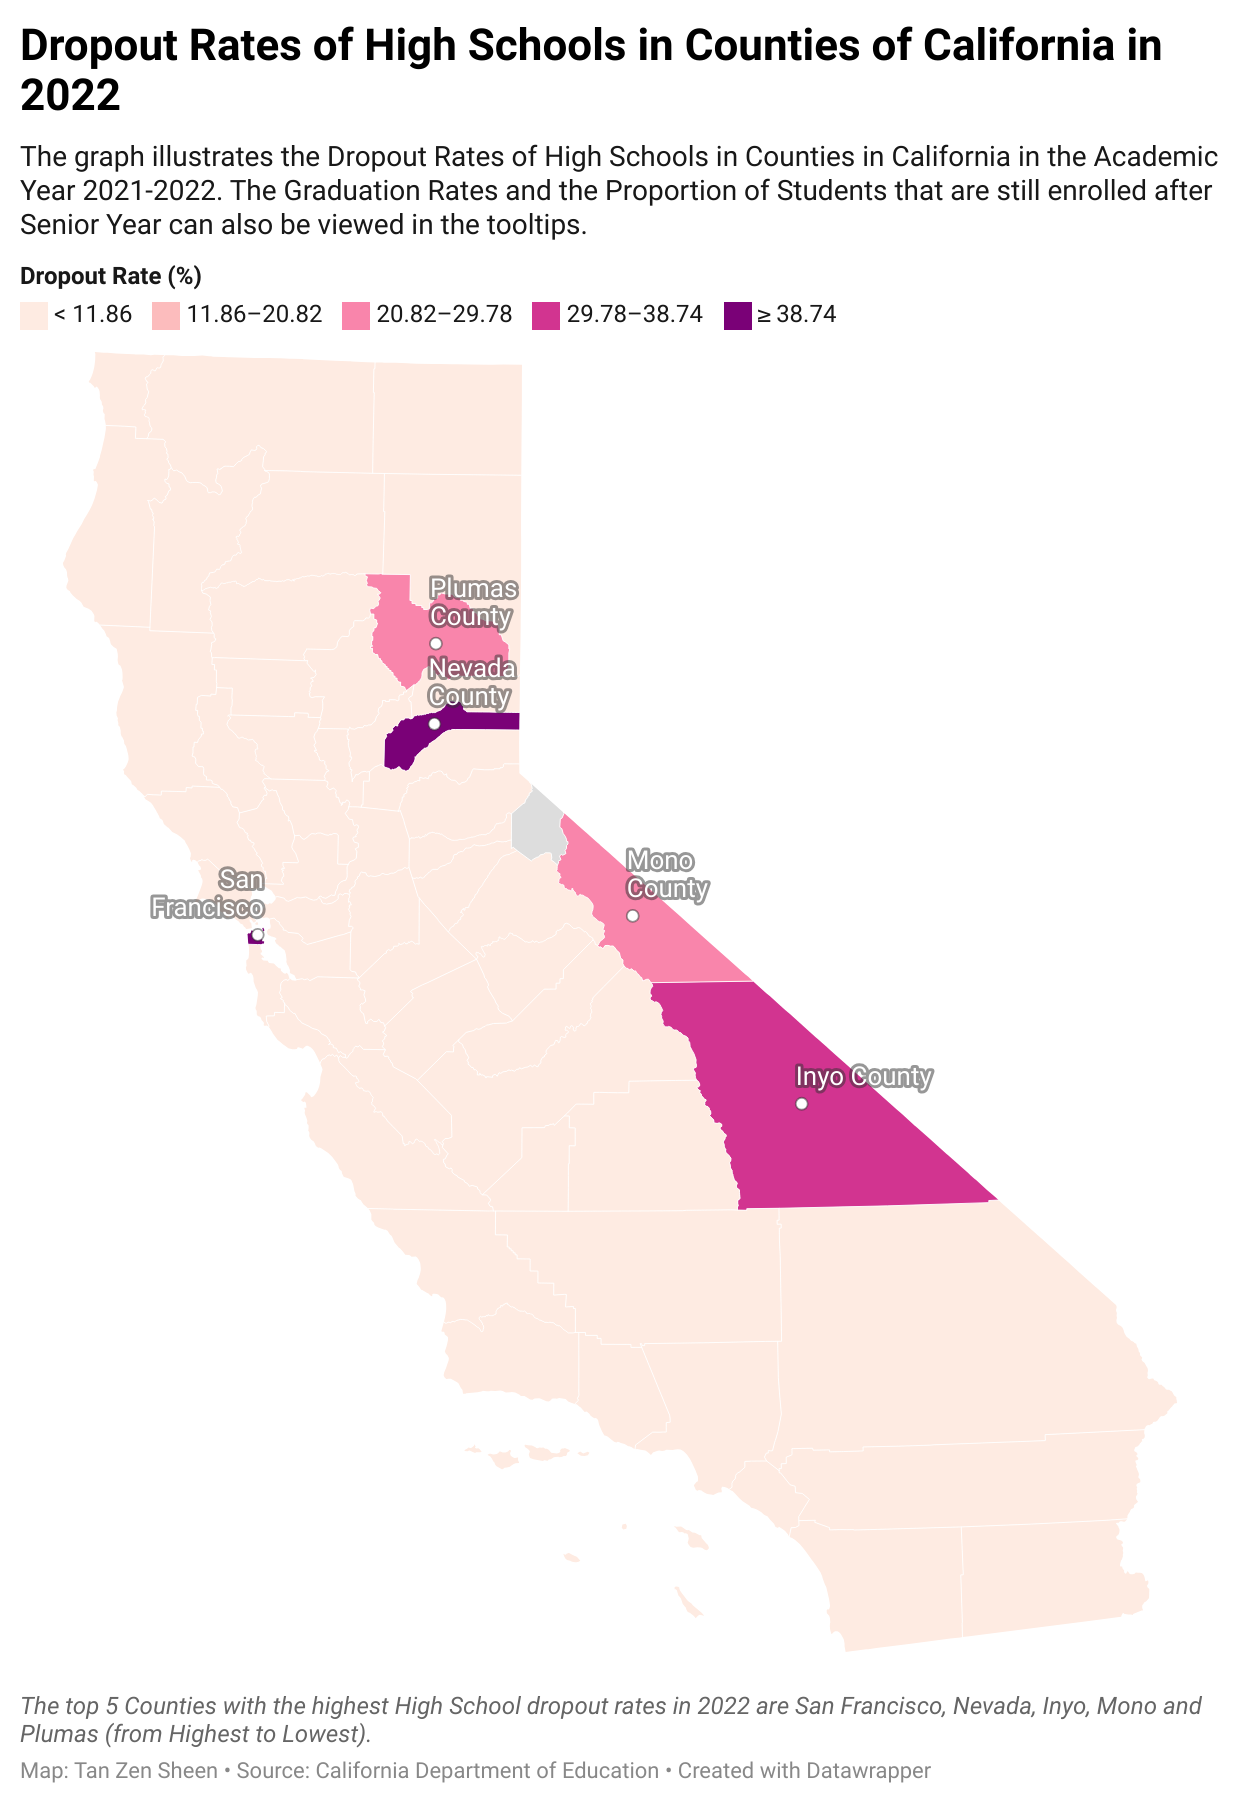
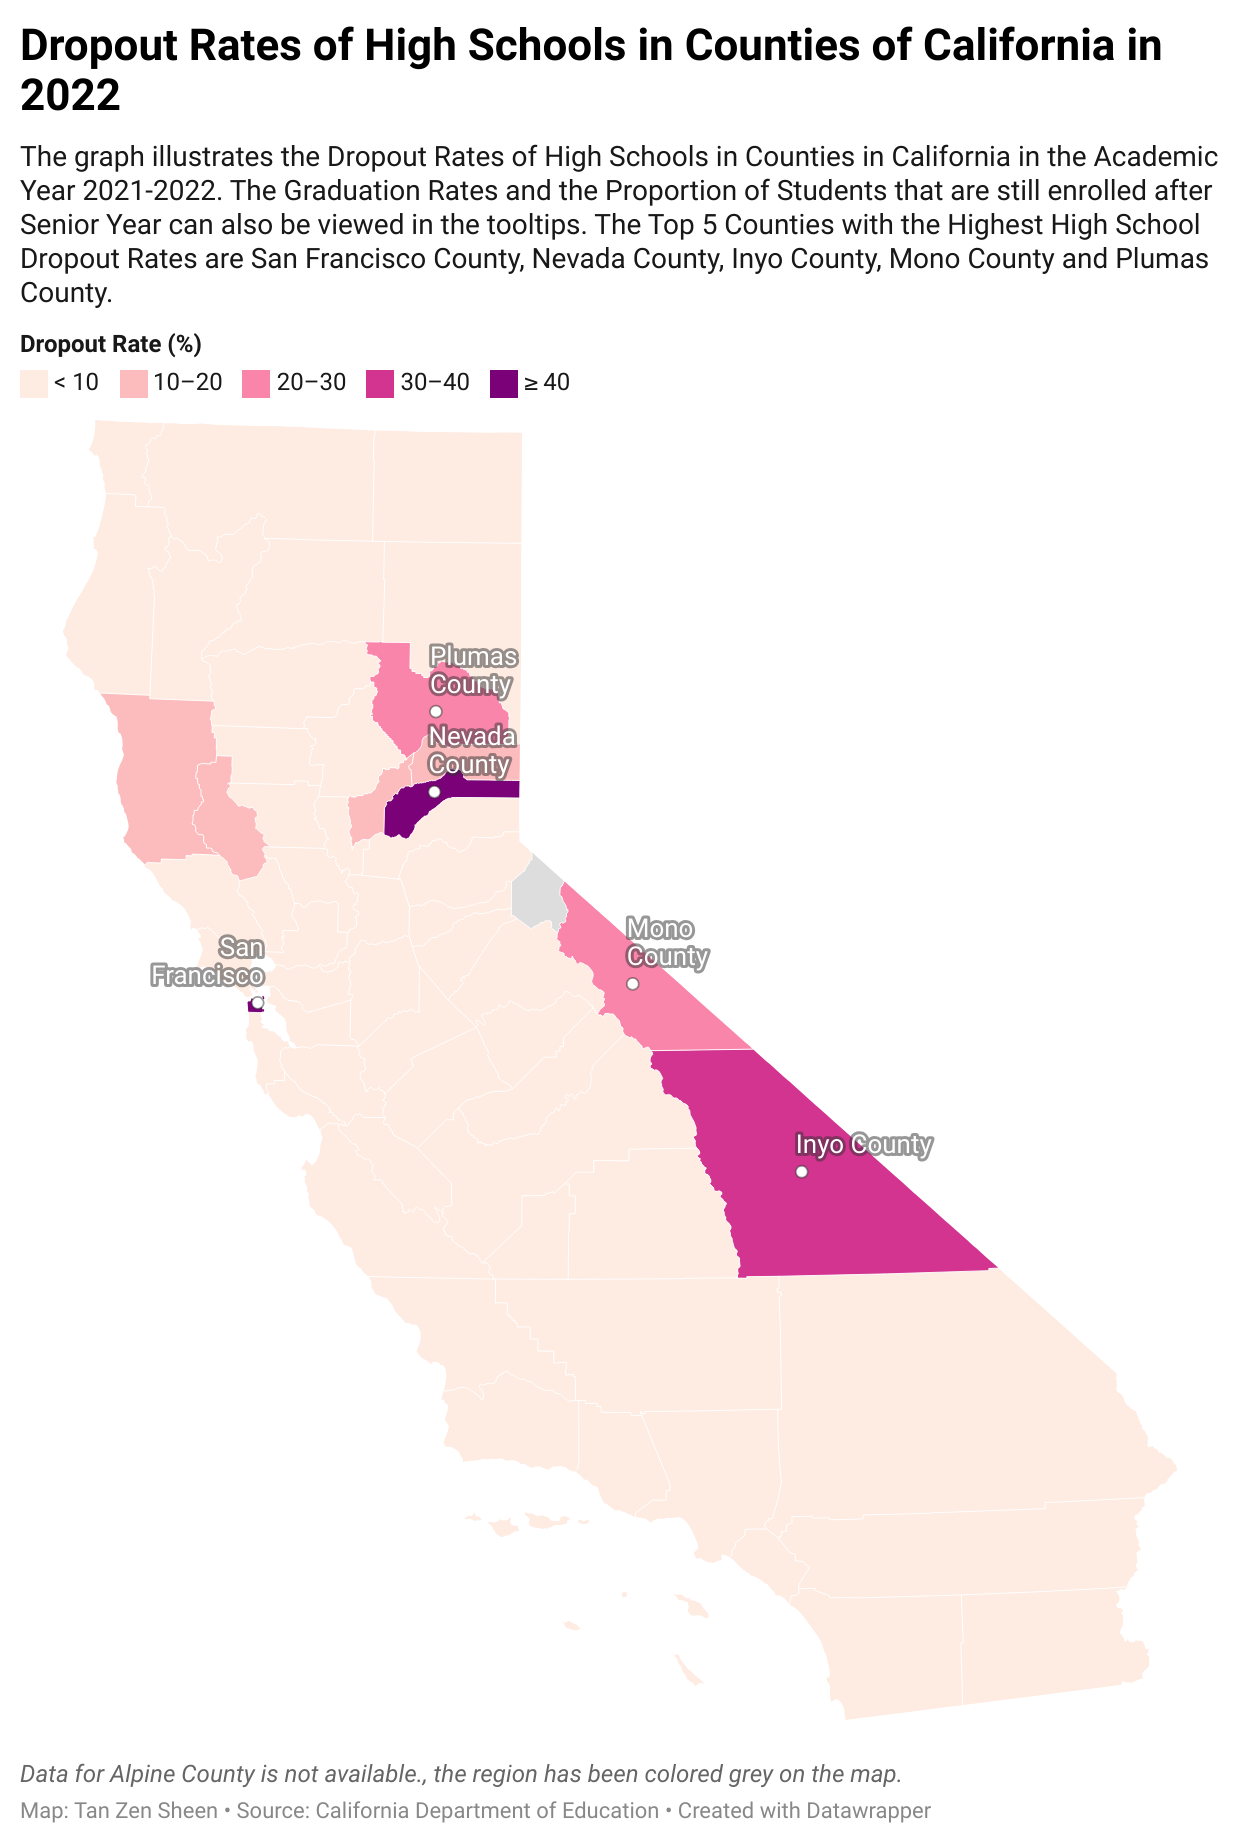
1

diff --git a/README.md b/README.md
@@ -184,13 +184,13 @@ Another interesting observation was that unlike the other Counties, the Droprate
 _Methodology_  
 1. Create a pivot table from the data on a seperate sheet, named as 2022 GDE (stands for Graduation, Dropout and Enrolment). This sheet is created in [ACGR](https://docs.google.com/spreadsheets/d/1zc8FEzi5wkwPSBJD1SgmVf1vp_lN6pdns5f7aXnaASc/edit?usp=sharing). The settings of the Pivot Table are set as such:
    *  Rows: CountyName
-   *  Values as: ( an aggegation function will be used, but because all values are unique, any of the functions (min, max, mean) will work.
+   *  Values as: ( Any aggegation functions, (min, max, mean, Sum) can be used, because all values are unique. )
       * Regular HS Diploma Graduates (Rate)
       * Dropout (Rate)
       * Sill Enrolled (Rate)
    *  Filters:
       * Academic Year: 2021-2022
-      * Reporting Category: TA (Refers to total)
+      * Reporting Category: TA (Refers to Total)
       * Count Name: Inyo, Mono, Nevada, Plumas, San Francisco
 2. Create a stacked column chart from the pivot table with X-axis as the County name and 3 series for the Regular HS Diploma Graduation rate, Dropout and Still Enrolled Rates.
 
@@ -199,13 +199,15 @@ _Pivot Table and Stacked Column chart of Graduation rate, Dropout Rate, and Prop
 
 ![Graduation, Still Enrolled and Dropout Rates of Counties in 2022](/images/Graduation,_Still_Enrolled_and_Dropout_Rates_of_Counties_in_2022.png)  
 _Graduation rate, Dropout Rate, and Proportion of Students that are still enrolled after senior year of Top 5 Counties in 2022_  
+
 From the chart, it can be seen that Mono has the Highest Proportion of Students were still enrolled after their Senior Year, and also the lowest Gradaution Rate in 2022.
 
 <h1>Data Visualization</h1>  
+By plotting the Graduation rates of each County in 2022 onto a Chlorepeth, the following visualisation is obtained:
 
 ![Chloropeth Map of High School Dropout Rates of Counties in California in 2022](/images/Chloropeth-dropout-rates-of-high-schools-in-counties-of-california-in-2022.png)
 
-[Chloropeth Map of High School Dropout Rates of Counties in California in 2022](https://datawrapper.dwcdn.net/ROyZZ/3/)
+[Chloropeth Map of High School Dropout Rates of Counties in California in 2022](https://datawrapper.dwcdn.net/ROyZZ/5/)
 
 <h1>Interviewees</h1>  
 At the end of the project, I hope to interview the following people whom I would believe would find this project useful in allocating resources and implementing policies to help support social subggroups that may be racially or financially disadvangted in their high school education.  
